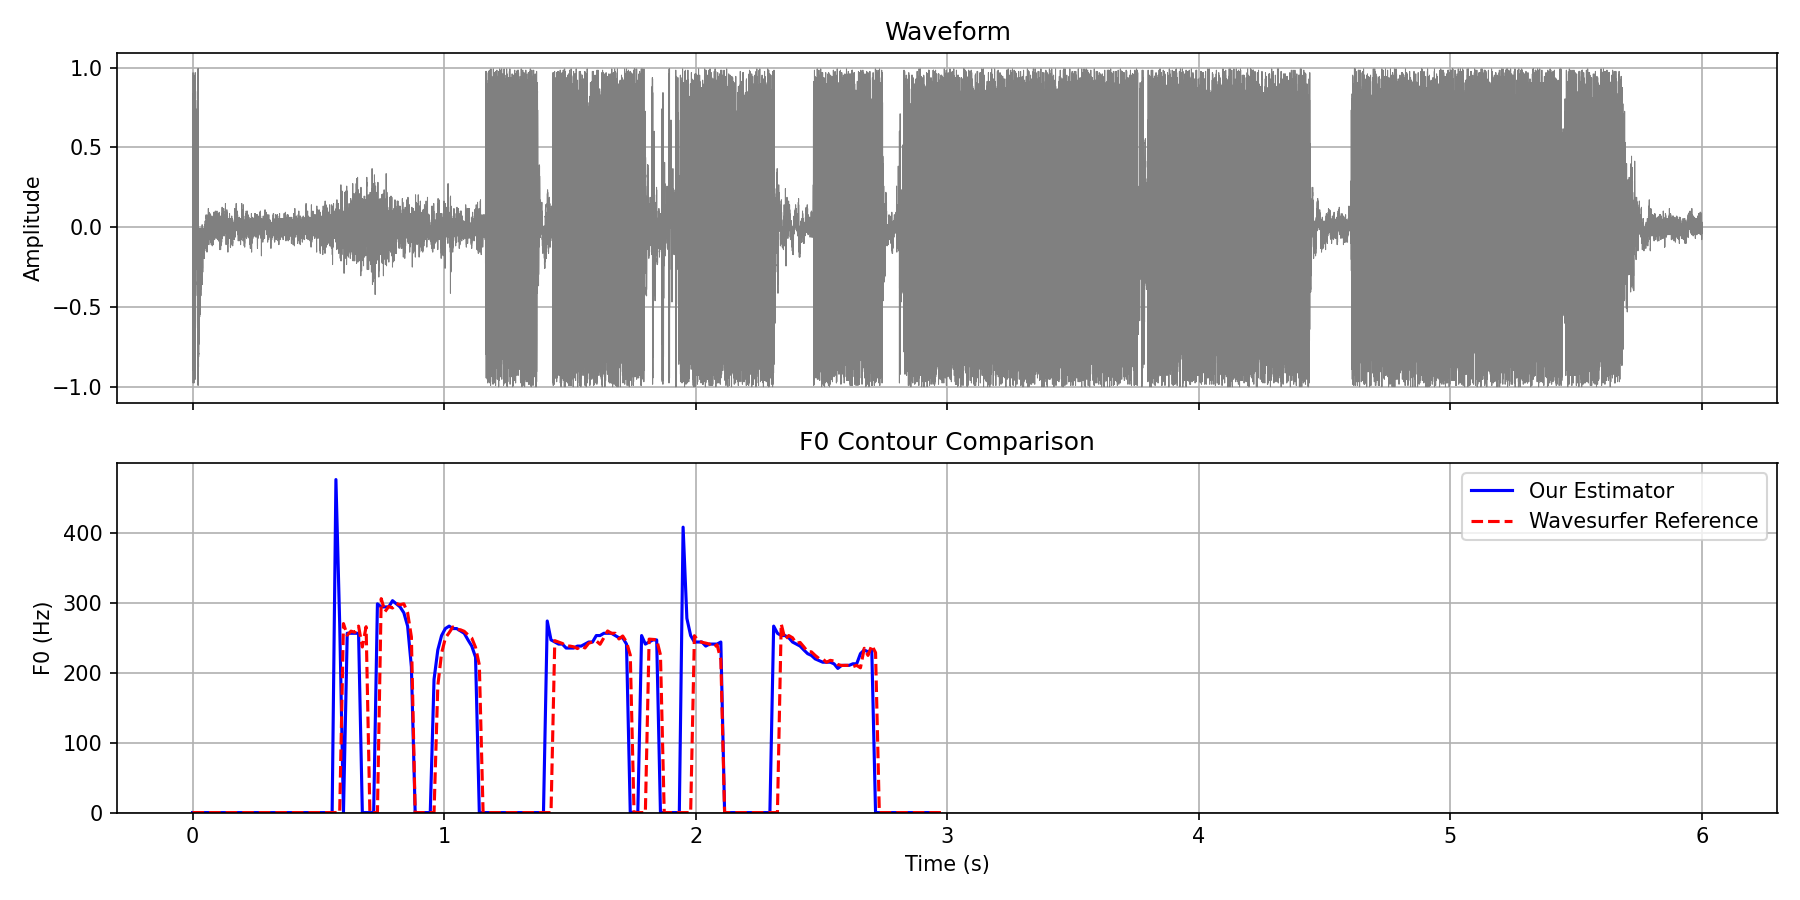
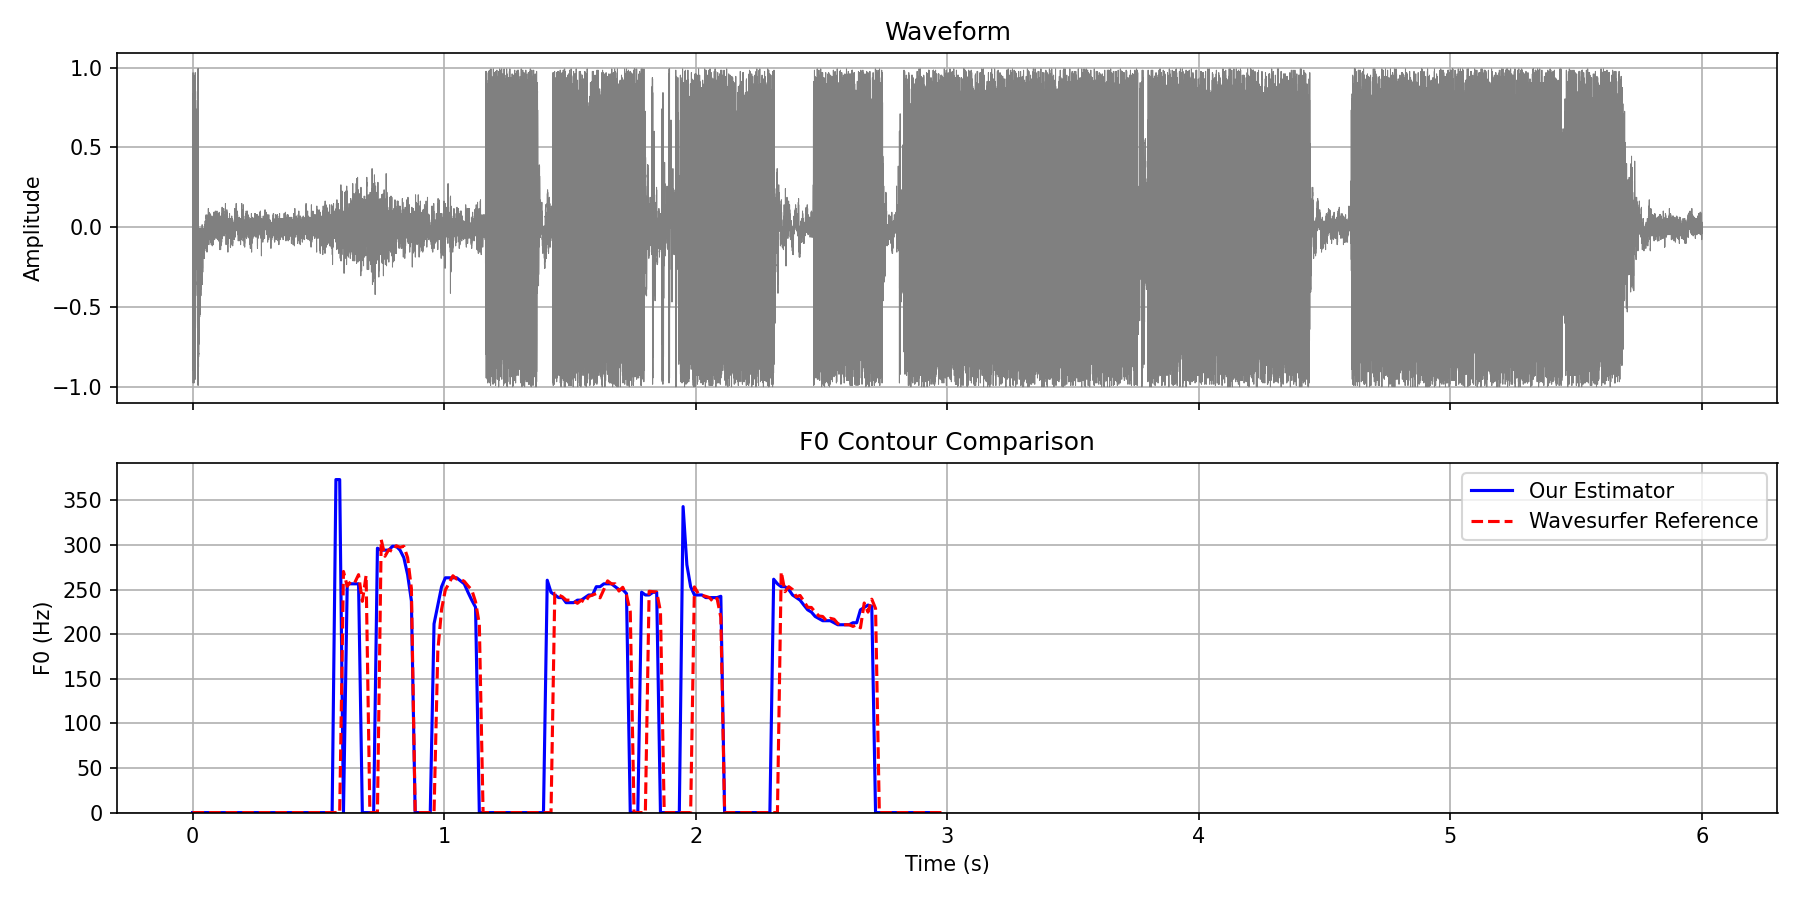
\

Changed region(s): [[0.0311, 0.5289, 0.9956, 0.9022], [0.1867, 0.5289, 0.2178, 0.56]]

diff --git a/scripts/plot_analysis.py b/scripts/plot_analysis.py
@@ -29,6 +29,19 @@ def read_wav(path):
 def read_f0(path):
     return np.loadtxt(path)
 
+def smooth_f0(f0, window=3):
+    """Apply median filter to smooth F0 contour, preserving zeros (unvoiced)."""
+    smoothed = np.copy(f0)
+    voiced = f0 > 0
+    if np.sum(voiced) < window:
+        return smoothed
+    idx = np.where(voiced)[0]
+    for i in idx:
+        left = max(0, i - window // 2)
+        right = min(len(f0), i + window // 2 + 1)
+        smoothed[i] = np.median(f0[left:right][f0[left:right] > 0]) if np.any(f0[left:right] > 0) else 0
+    return smoothed
+
 def autocorr(x):
     n = len(x)
     r = np.zeros(n)
@@ -94,7 +107,7 @@ def plot_wavesurfer_params(wav_path, f0_path=None, f0ref_path=None, output_path=
         else:
             f0ref = f0ref_data
 
-    f0 = f0_est
+    f0 = smooth_f0(f0_est)
     n_frames = len(pot)
     t = np.arange(n_frames) * frame_shift
 
@@ -217,6 +230,8 @@ def plot_comparison(wav_path, f0_path=None, f0ref_path=None, output_path=None):
             f0 = f0_data
     else:
         f0 = f0_est
+    if f0 is not None:
+        f0 = smooth_f0(f0)
 
     f0ref = None
     if f0ref_path and os.path.exists(f0ref_path):
